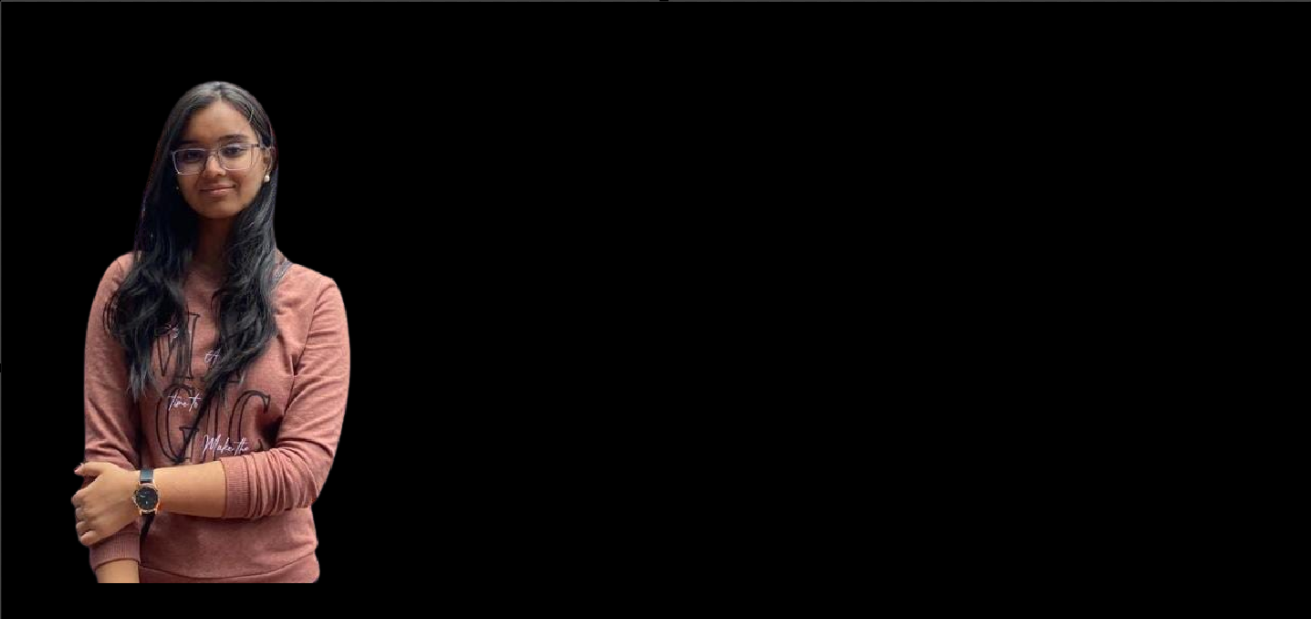
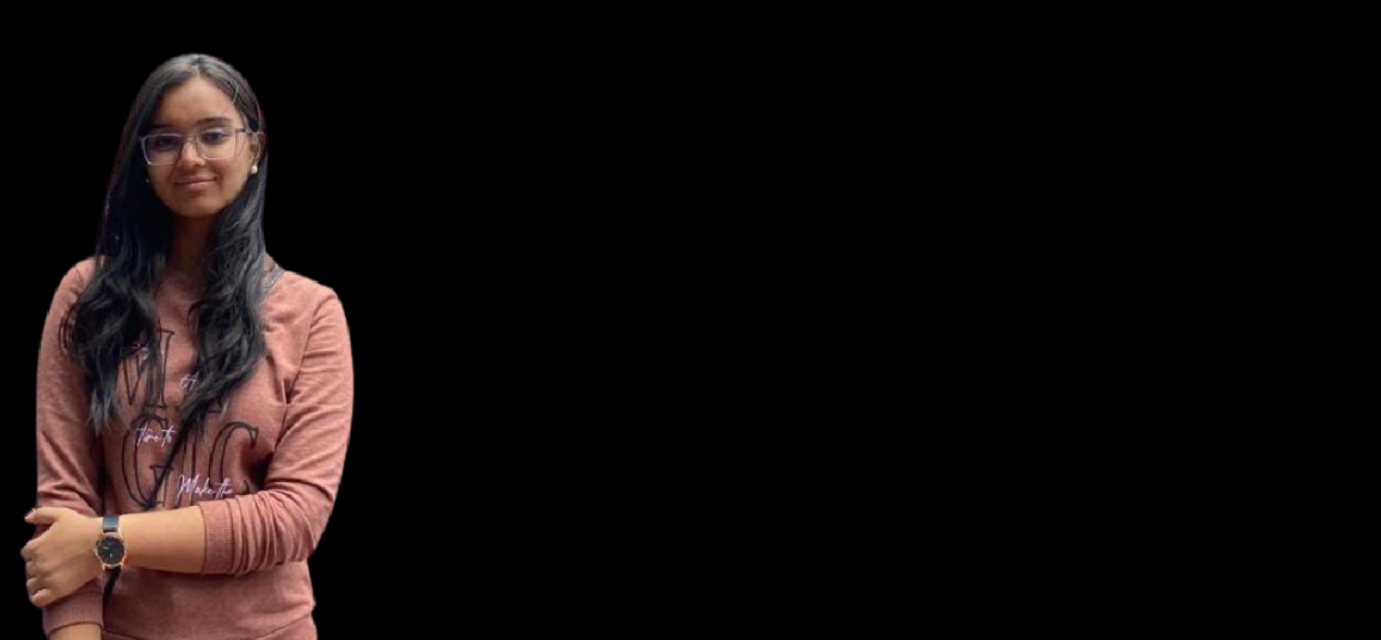
updated about page. some errors

Changed region(s): [[0.0, 0.0614, 0.2746, 1.0], [0.5187, 0.0, 1.0, 0.0307], [0.0, 0.0, 0.4882, 0.0307]]

diff --git a/index.html b/index.html
@@ -25,5 +25,60 @@
         </div>
     </div>
 
+    <!-- ------------about------------- -->
+
+    <div id="about">
+        <div class="container">
+            <div class="row">
+                <div class="about-col-1">
+                    <img src="images\WhatsApp_Image_2024-06-18_at_16.19.43_3e6f0f36-removebg-preview.png">
+                </div>
+                <div class="about-col-2">
+                    <h1 class="sub-title">About Me!</h1>
+                    <p>Lorem ipsum dolor sit amet, consectetur adipiscing elit. Nullam ac vulputate leo. 
+                        Curabitur auctor, lorem id facilisis tincidunt, justo purus vestibulum purus, at venenatis
+                        nulla ipsum eget eros. Quisque lacinia, elit ut venenatis euismod, erat mi viverra tortor, 
+                        nec malesuada justo est vel ligula.</p>
+
+                        <div class="tab-titles">
+                            <p class="tab-links active-link">Skills</p>
+                            <p class="tab-links">Education</p>
+                        </div>
+                        <div class="tab-contents active-tab" on-click="opentab('skills')" id="skills">
+                            <ul>
+                                <li><span>UI?UX</span><br>Designing Web App Interfaces</li>
+                                <li><span>Web Development</span><br>Web App Development</li>
+                                <li><span>App Development</span><br>Building Android/iOS Apps</li>
+                            </ul>
+                        </div>
+
+
+                        <div class="tab-contents" on-click="opentab('education')" id="education">
+                            <ul>
+                                <li><span>B.Tech - IIIT Delhi</span><br>Computer Science with Applied Mathematics</li>
+                                <li><span>School - ISWK, Oman</span><br>High School</li>
+                            </ul>
+                        </div>
+                </div>
+            </div>
+        </div>
+    </div>
+
+    <script>
+        
+        var tablinks = document.getElementsByClassName(tab-links);
+        var tabcontents = document.getElementsByClassName(tab-contents);
+
+        function opentab(tabname){
+            for(tablink of tablinks){
+                tablinks.classList.remove("active-link")
+            }
+            for(tabcontent of tabcontents){
+                tablinks.classList.remove("active-tab")
+            }
+        }
+    
+    </script>
+
 </body>
 </html>

diff --git a/style.css b/style.css
@@ -74,3 +74,81 @@ nav ul li a:hover::after{
 .header-text h1 span.highlight{
     color: #ff004f;
 }
+
+/* ----------------about-------------- */
+
+#about{
+    padding: 100px 0 40px 0;
+    color: #ababab;
+}
+
+.row{
+    display: flex;
+    justify-content: space-between;
+    flex-wrap: wrap;
+}
+
+.about-col-1{
+    flex-basis: 35%;
+}
+
+.about-col-1 img{
+    width: 80%;
+    /* border-radius: 15%; */
+}
+
+.about-col-2{
+    flex-basis: 60%;
+}
+
+.sub-title{
+    font-size: 50px;
+    font-weight: 600;
+    color: white;
+}
+
+.tab-titles{
+    display: flex;
+    margin: 20px 0 40px;
+}
+
+.tab-links{
+    margin-right: 50px;
+    font-size: 18px;
+    font-weight: 550;
+    cursor: pointer;
+    position: relative;
+}
+
+.tab-links::after{
+    content: '';
+    width: 0;
+    height: 3px;
+    background: #ff004f;
+    position: absolute;
+    left: 0;
+    bottom: -8px;
+    transition: 0.5s;
+}
+
+.tab-links.active-link::after{
+    width: 50%;
+}
+
+.tab-contents ul li{
+    list-style: none;
+    margin: 10px 0;
+}
+
+.tab-contents ul li span{
+    color: #b54769;
+    font-size: 14px;
+}
+
+.tab-contents{
+    display: none;
+}
+
+.tab-contents.active-tab{
+    display: block;
+}
